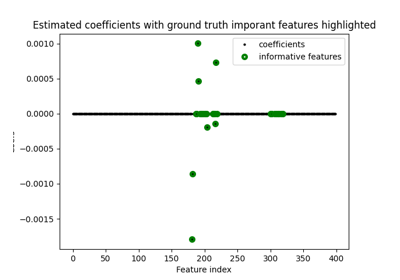
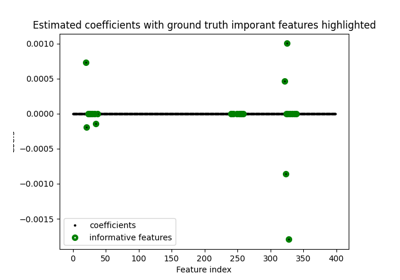
Deploying to gh-pages from  @ 1c7a7ec5d9ecbed5f57a8d3dbca868fb99ea54d0 🚀

diff --git a/searchindex.js b/searchindex.js
@@ -1,1 +1,1 @@
-Search.setIndex({docnames:["api","auto_examples/index","auto_examples/plot_classifier","auto_examples/sg_execution_times","contributing","getting_help","index","install","user_guide"],envversion:{"sphinx.domains.c":2,"sphinx.domains.changeset":1,"sphinx.domains.citation":1,"sphinx.domains.cpp":3,"sphinx.domains.index":1,"sphinx.domains.javascript":2,"sphinx.domains.math":2,"sphinx.domains.python":2,"sphinx.domains.rst":2,"sphinx.domains.std":1,"sphinx.ext.intersphinx":1,"sphinx.ext.viewcode":1,sphinx:56},filenames:["api.rst","auto_examples/index.rst","auto_examples/plot_classifier.rst","auto_examples/sg_execution_times.rst","contributing.rst","getting_help.rst","index.rst","install.rst","user_guide.rst"],objects:{"groupyr.datasets":{make_group_classification:[0,1,1,""],make_group_regression:[0,1,1,""]},groupyr:{LogisticSGL:[0,0,1,""],LogisticSGLCV:[0,0,1,""],SGL:[0,0,1,""],SGLCV:[0,0,1,""]}},objnames:{"0":["py","class","Python class"],"1":["py","function","Python function"]},objtypes:{"0":"py:class","1":"py:function"},terms:{"001":0,"100":[0,2],"1000":0,"10618600":0,"108":6,"1080":0,"122":6,"1283339":6,"181":2,"182":2,"187":2,"188":2,"190":2,"191":2,"193":2,"195":2,"196":2,"198":2,"200":2,"2003":0,"201":2,"2011":6,"2012":0,"2013":6,"2020":6,"203":2,"204":2,"213":2,"214":2,"215":2,"216":2,"217":2,"219":2,"231":[0,6],"245":[0,6],"2825":6,"2830":6,"300":2,"301":2,"302":2,"307":2,"309":2,"312":2,"313":2,"316":2,"318":2,"319":2,"4065037":6,"5281":6,"681250":0,"691":[2,3],"boolean":0,"case":0,"class":0,"default":0,"float":0,"function":0,"import":2,"int":0,"new":[5,7],"public":6,"return":0,"true":[0,2],"while":[0,8],And:6,For:0,The:[0,2,7],These:0,Use:0,Used:0,__init__:0,about:[0,5],accuracy_scor:0,across:0,actual:0,adapt:0,add:0,added:0,after:0,alford:6,alfr:6,algorithm:0,all:[0,1,5,7],allow:5,along:0,alpha:[0,6],alpha_:0,alpha_max:0,alpha_min:0,alphas_:0,also:[0,4],altern:7,amount:0,ani:[0,5],anjari:6,appli:0,appreci:6,appropri:[0,4],arang:2,arayan:6,arbitrari:0,ariel:6,around:0,arrai:0,ask:5,assign:[0,6],asso:6,attribut:0,author:6,auto_exampl:3,auto_examples_jupyt:1,auto_examples_python:1,automat:0,avail:4,balanc:0,basic:6,becaus:0,befor:[0,5],belong:[0,6],benchmark:0,best:[0,2],beta:6,betti:6,between:[0,6],bia:0,bibtex:6,bioengin:6,biomed:6,black:2,bool:0,borrow:6,both:6,bug:5,built:0,buitnick:6,button:5,calcul:0,call:0,callabl:0,can:[0,5,6,7],canon:0,capabl:0,center:0,character:6,choic:0,chosen:0,chosen_features_:2,citat:6,class_sep:0,classes_:0,classif:0,classifi:0,click:[2,5],clone:7,close:0,cluster:0,code:[1,2,7],coef:[0,2],coef_:[0,2],coeffici:[0,2,6],collabor:[4,6],column:6,com:7,combin:[0,6],compar:2,compat:[0,6],compos:0,composit:6,compris:0,compromis:0,comput:[0,6],constant:0,construct:0,contain:0,context:0,contigu:0,contrast:0,contribut:7,control:6,converg:0,copi:0,copt:6,copy_x:0,cost:0,covari:[0,6],cpu:0,creat:0,credit:4,criterion:0,dam:6,data:[0,5,6],dataset:2,decis:0,depend:[0,7],descent:0,design:[0,6],detail:[4,6],determin:0,develop:[4,6],deviat:0,differ:0,dimens:0,dimension:[0,6],distribut:0,divid:0,document:0,doi:[0,6],download:[1,2],drawn:0,duplic:0,dure:0,each:0,easier:0,ecml:6,edit:8,effect:0,effective_rank:0,effici:0,elasticnet:0,eleftherio:6,element:0,ell:6,els:0,encod:0,encourag:0,entri:6,eps:[0,2],equal:0,error:0,escienc:6,estim:[2,6],ethic:5,evalu:0,examin:5,exampl:[0,2,7],exce:0,exchang:0,execut:3,expect:0,experi:[0,6],explain:0,face:5,facilit:6,factor:0,fals:0,featur:[0,2,6,7],features_per_group:0,file:3,find:0,fit:[0,2,6],fit_intercept:0,flag:0,flip:6,flip_i:0,fold:0,formula:0,foundat:6,frac:6,fraction:0,friedman:[0,6],from:[0,2,4,6,7],full:2,further:[0,6,7],galleri:[1,2,6,7],garyfallidi:6,gaussian:0,gener:2,giant:0,git:7,github:[5,7],give:[0,6],global:6,going:5,good:0,gordon:6,gradient:0,grant:6,graphic:[0,6],green:2,grid:0,ground:2,group:[1,3],group_length:0,groupyr:[0,2,7],guid:[0,7],guidelin:[4,7],guyon:0,halford:6,happen:0,harder:0,has:0,hasti:[0,6],hat:6,have:0,heavili:6,here:[0,2,4],high:6,highlight:2,hot:0,how:[5,6,7],http:[6,7],hyper:0,hypercub:0,hyperparamet:[0,6],ichi:6,idx:2,ignor:0,imag:6,implement:6,impor:2,includ:[0,7],include_solver_trac:0,independ:0,index:2,indiana:6,indic:[0,2],infer:0,inform:[0,2,5,6,7],initi:0,input:0,instal:[5,6],instanc:0,institut:6,instruct:6,integ:0,intend:[0,6],intercept:0,intercept_:0,interdepend:0,introduc:0,introductori:[1,6],ipynb:2,issu:[5,8],iter:0,its:[6,7],jerom:0,joblib:0,journal:[0,6],jupyt:[1,2],just:0,kfold:0,know:5,known:0,l1_ratio:[0,2],l1_ratio_:0,label:[0,2],lambda:6,languag:6,larger:0,lasso:[1,3],last:0,learn:[0,6],legend:2,len:0,length:[0,6],less:7,librari:6,licens:[4,6],like:[0,7],linear:[0,6],linearli:0,list:0,loc:2,locat:0,logist:[0,1,3],logistic_sgl_path:0,logisticsgl:0,logisticsglcv:[0,2],logo:6,look:[0,6],machin:6,madelon:0,mai:[0,7],make:[0,5],make_blob:0,make_classif:0,make_group_classif:[0,2],make_group_regress:0,make_multilabel_classif:0,make_regress:0,marker:2,mathbf:6,matplotlib:2,matrix:[0,6],max_it:0,maximum:0,mean:[0,4],mec:2,membership:0,method:0,metric:0,mew:2,mfc:2,might:5,mild:0,min_:6,mine:6,minut:2,model:[0,2,6],month:6,moor:6,more:0,mse_path_:0,multilabel:0,multipl:0,multipli:0,must:6,n_alpha:[0,2],n_class:[0,2],n_clusters_per_class:0,n_featur:[0,2],n_features_per_group:[0,2],n_fold:0,n_group:[0,2],n_inform:0,n_informative_group:[0,2],n_informative_per_group:[0,2],n_iter_:0,n_job:0,n_l1_ratio:0,n_redund:0,n_redundant_per_group:[0,2],n_repeat:0,n_repeated_per_group:[0,2],n_sampl:[0,2],n_target:0,narayan:6,nation:6,ndarrai:0,need:5,neurosci:6,next:7,nih:6,nine:0,nip:0,noah:0,nois:0,non:[0,2],none:[0,2],norm:0,normal:[0,6],note:0,notebook:[1,2],number:[0,6],numpi:[0,2],object:0,oct:6,often:5,okem:6,one:0,onli:0,open:[4,8],oper:5,optim:[0,6],option:0,order:0,org:6,other:0,our:[4,5],out:[0,2],output:0,outsid:4,overal:0,overlap:0,overwritten:0,own:8,page:[5,6],parallel_backend:0,paramet:0,pars:6,partit:0,pass:0,path:0,patient:8,pedregosa:6,penal:[0,6],penalti:[0,6],per:0,pertin:5,pgd:0,pip:7,pkdd:6,place:0,pleas:[0,5,8],plot:2,plot_classifi:[2,3],plt:2,point:0,polytop:0,posit:0,possibl:0,post:5,predefin:6,predict:0,predictor:0,preprocess:0,previou:0,primari:0,print:2,prior:0,problem:[0,6],procedur:5,processor:0,produc:0,project:[4,6],promot:6,proport:0,provid:[0,5],proxim:0,pseudo:0,publish:6,put:0,pypi:7,pyplot:2,python:[1,2,7],r01eb027585:6,randal:6,random:0,random_st:[0,2],randomli:0,randomst:0,reach:0,recommend:7,redund:0,regress:[0,2,6],regressor:0,regular:[0,6],relat:6,relationship:6,reli:6,remain:0,repeat:0,repositori:[5,7],reproduc:0,requir:7,research:[4,6],result:0,reus:0,richford:7,richi:6,riel:6,robert:0,rokem:6,root:0,roup:6,roupyr:6,routin:0,run:[0,2,5],same:0,sampl:[0,5],satisfi:6,scale:[0,2],scale_l2_bi:0,scientif:6,scikit:[0,6],score:0,scorer:0,scoring_path_:0,script:2,search:0,second:2,see:[0,4,6,7],seed:0,select:0,send:5,set:[0,6],sgl:0,sgl_path:0,sglcv:0,shape:[0,2],share:5,shift:0,should:0,show:2,shuffl:0,side:0,signal:[1,3],signatur:0,silhouett:6,simon:[0,6],simplifi:0,simul:2,singular:0,size:0,sklearn:0,sloan:6,small:5,softwar:[4,5,6],solut:0,solv:0,solver:[0,6],some:0,sourc:[0,1,2,4,7],spars:[1,3],sparsiti:[0,6],specifi:0,sphinx:[1,2],split:0,splitter:0,spread:0,sqrt:6,squar:0,stabl:7,stack:0,standard:0,standardscal:0,start:0,statist:[0,6],std:0,stop:0,strategi:0,strength:[0,6],string:0,strong:0,studi:5,submatrix:6,subspac:0,subtract:0,suggest:8,sum:0,sum_:6,supervis:6,support:6,suppress:0,suppress_solver_warn:0,sure:5,synthet:0,system:5,target:6,task:0,techniqu:0,templat:6,term:0,test:0,than:0,thei:0,therefor:6,thi:[0,4,5,7,8],three:0,through:6,tibshirani:[0,6],time:2,titl:[2,6],tol:[0,2],toler:0,total:[0,2,3,6],train:0,trevor:0,truth:2,tune:0,type:0,univers:6,unless:0,unrel:0,unshuffl:0,updat:[0,8],url:6,usag:6,use:[0,4,6,7],used:0,useful:0,useful_indic:[0,2],useless:0,user:[0,7],uses:0,using:[0,6,7],valu:0,vari:0,variabl:[0,6],variant:0,variou:0,vector:[0,6],verbos:0,version:[0,5,6],vertic:0,via:0,vol:0,wai:7,warm:0,warm_start:0,warn:0,washington:6,weight:0,welcom:4,well:[5,6],what:5,when:0,where:[0,2,6],whether:0,which:0,whose:0,wise:[0,6],wish:0,within:0,workshop:6,would:[0,6,7],xlabel:2,year:6,yield:[0,6],ylabel:2,you:[0,4,5,6,7],your:[5,8],ython:6,zenodo:6,zero:[0,2],zip:1},titles:["API Reference","General examples","Logistic Sparse Group Lasso for grouped sparse signals","Computation times","Contributing to <em>groupyr</em>","Getting help using <em>groupyr</em>","Groupyr: Sparse Group Lasso in Python","Installation","User guide : contents"],titleterms:{The:6,acknowledg:6,api:[0,6],cite:6,comput:3,construct:8,contribut:4,cross:0,dataset:0,develop:7,document:6,estim:0,exampl:[1,6],gener:[0,1],get:[5,6],group:[0,2,6],groupyr:[4,5,6],guid:[6,8],help:5,instal:7,lasso:[0,2,6],logist:2,python:6,refer:[0,6],releas:7,signal:2,spars:[0,2,6],start:6,time:3,under:8,user:[6,8],using:5,valid:0,version:7}})
+Search.setIndex({docnames:["api","auto_examples/index","auto_examples/plot_classifier","auto_examples/sg_execution_times","contributing","getting_help","index","install","user_guide"],envversion:{"sphinx.domains.c":2,"sphinx.domains.changeset":1,"sphinx.domains.citation":1,"sphinx.domains.cpp":3,"sphinx.domains.index":1,"sphinx.domains.javascript":2,"sphinx.domains.math":2,"sphinx.domains.python":2,"sphinx.domains.rst":2,"sphinx.domains.std":1,"sphinx.ext.intersphinx":1,"sphinx.ext.viewcode":1,sphinx:56},filenames:["api.rst","auto_examples/index.rst","auto_examples/plot_classifier.rst","auto_examples/sg_execution_times.rst","contributing.rst","getting_help.rst","index.rst","install.rst","user_guide.rst"],objects:{"groupyr.datasets":{make_group_classification:[0,1,1,""],make_group_regression:[0,1,1,""]},groupyr:{LogisticSGL:[0,0,1,""],LogisticSGLCV:[0,0,1,""],SGL:[0,0,1,""],SGLCV:[0,0,1,""]}},objnames:{"0":["py","class","Python class"],"1":["py","function","Python function"]},objtypes:{"0":"py:class","1":"py:function"},terms:{"001":0,"100":[0,2],"1000":0,"10618600":0,"108":6,"1080":0,"122":6,"1283339":6,"2003":0,"2011":6,"2012":0,"2013":6,"2020":6,"231":[0,6],"240":2,"241":2,"244":2,"245":[0,6],"249":2,"253":2,"254":2,"255":2,"256":2,"257":2,"259":2,"2825":6,"2830":6,"291":[2,3],"322":2,"323":2,"324":2,"325":2,"326":2,"328":2,"330":2,"333":2,"337":2,"339":2,"4065037":6,"5281":6,"681250":0,"boolean":0,"case":0,"class":0,"default":0,"float":0,"function":0,"import":2,"int":0,"new":[5,7],"public":6,"return":0,"true":[0,2],"while":[0,8],And:6,For:0,The:[0,2,7],These:0,Use:0,Used:0,__init__:0,about:[0,5],accuracy_scor:0,across:0,actual:0,adapt:0,add:0,added:0,after:0,alford:6,alfr:6,algorithm:0,all:[0,1,5,7],allow:5,along:0,alpha:[0,6],alpha_:0,alpha_max:0,alpha_min:0,alphas_:0,also:[0,4],altern:7,amount:0,ani:[0,5],anjari:6,appli:0,appreci:6,appropri:[0,4],arang:2,arayan:6,arbitrari:0,ariel:6,around:0,arrai:0,ask:5,assign:[0,6],asso:6,attribut:0,author:6,auto_exampl:3,auto_examples_jupyt:1,auto_examples_python:1,automat:0,avail:4,balanc:0,basic:6,becaus:0,befor:[0,5],belong:[0,6],benchmark:0,best:[0,2],beta:6,betti:6,between:[0,6],bia:0,bibtex:6,bioengin:6,biomed:6,black:2,bool:0,borrow:6,both:6,bug:5,built:0,buitnick:6,button:5,calcul:0,call:0,callabl:0,can:[0,5,6,7],canon:0,capabl:0,center:0,character:6,choic:0,chosen:0,chosen_features_:2,citat:6,class_sep:0,classes_:0,classif:0,classifi:0,click:[2,5],clone:7,close:0,cluster:0,code:[1,2,7],coef:[0,2],coef_:[0,2],coeffici:[0,2,6],collabor:[4,6],column:6,com:7,combin:[0,6],compar:2,compat:[0,6],compos:0,composit:6,compris:0,compromis:0,comput:[0,6],constant:0,construct:0,contain:0,context:0,contigu:0,contrast:0,contribut:7,control:6,converg:0,copi:0,copt:6,copy_x:0,cost:0,covari:[0,6],cpu:0,creat:0,credit:4,criterion:0,dam:6,data:[0,5,6],dataset:2,decis:0,depend:[0,7],descent:0,design:[0,6],detail:[4,6],determin:0,develop:[4,6],deviat:0,differ:0,dimens:0,dimension:[0,6],distribut:0,divid:0,document:0,doi:[0,6],download:[1,2],drawn:0,duplic:0,dure:0,each:0,easier:0,ecml:6,edit:8,effect:0,effective_rank:0,effici:0,elasticnet:0,eleftherio:6,element:0,ell:6,els:0,encod:0,encourag:0,entri:6,eps:[0,2],equal:0,error:0,escienc:6,estim:[2,6],ethic:5,evalu:0,examin:5,exampl:[0,2,7],exce:0,exchang:0,execut:3,expect:0,experi:[0,6],explain:0,face:5,facilit:6,factor:0,fals:0,featur:[0,2,6,7],features_per_group:0,file:3,find:0,fit:[0,2,6],fit_intercept:0,flag:0,flip:6,flip_i:0,fold:0,formula:0,foundat:6,frac:6,fraction:0,friedman:[0,6],from:[0,2,4,6,7],full:2,further:[0,6,7],galleri:[1,2,6,7],garyfallidi:6,gaussian:0,gener:2,giant:0,git:7,github:[5,7],give:[0,6],global:6,going:5,good:0,gordon:6,gradient:0,grant:6,graphic:[0,6],green:2,grid:0,ground:2,group:[1,3],group_length:0,groupyr:[0,2,7],guid:[0,7],guidelin:[4,7],guyon:0,halford:6,happen:0,harder:0,has:0,hasti:[0,6],hat:6,have:0,heavili:6,here:[0,2,4],high:6,highlight:2,hot:0,how:[5,6,7],http:[6,7],hyper:0,hypercub:0,hyperparamet:[0,6],ichi:6,idx:2,ignor:0,imag:6,implement:6,impor:2,includ:[0,7],include_solver_trac:0,independ:0,index:2,indiana:6,indic:[0,2],infer:0,inform:[0,2,5,6,7],initi:0,input:0,instal:[5,6],instanc:0,institut:6,instruct:6,integ:0,intend:[0,6],intercept:0,intercept_:0,interdepend:0,introduc:0,introductori:[1,6],ipynb:2,issu:[5,8],iter:0,its:[6,7],jerom:0,joblib:0,journal:[0,6],jupyt:[1,2],just:0,kfold:0,know:5,known:0,l1_ratio:[0,2],l1_ratio_:0,label:[0,2],lambda:6,languag:6,larger:0,lasso:[1,3],last:0,learn:[0,6],legend:2,len:0,length:[0,6],less:7,librari:6,licens:[4,6],like:[0,7],linear:[0,6],linearli:0,list:0,loc:2,locat:0,logist:[0,1,3],logistic_sgl_path:0,logisticsgl:0,logisticsglcv:[0,2],logo:6,look:[0,6],machin:6,madelon:0,mai:[0,7],make:[0,5],make_blob:0,make_classif:0,make_group_classif:[0,2],make_group_regress:0,make_multilabel_classif:0,make_regress:0,marker:2,mathbf:6,matplotlib:2,matrix:[0,6],max_it:0,maximum:0,mean:[0,4],mec:2,membership:0,method:0,metric:0,mew:2,mfc:2,might:5,mild:0,min_:6,mine:6,minut:2,model:[0,2,6],month:6,moor:6,more:0,mse_path_:0,multilabel:0,multipl:0,multipli:0,must:6,n_alpha:[0,2],n_class:[0,2],n_clusters_per_class:0,n_featur:[0,2],n_features_per_group:[0,2],n_fold:0,n_group:[0,2],n_inform:0,n_informative_group:[0,2],n_informative_per_group:[0,2],n_iter_:0,n_job:0,n_l1_ratio:0,n_redund:0,n_redundant_per_group:[0,2],n_repeat:0,n_repeated_per_group:[0,2],n_sampl:[0,2],n_target:0,narayan:6,nation:6,ndarrai:0,need:5,neurosci:6,next:7,nih:6,nine:0,nip:0,noah:0,nois:0,non:[0,2],none:[0,2],norm:0,normal:[0,6],note:0,notebook:[1,2],number:[0,6],numpi:[0,2],object:0,oct:6,often:5,okem:6,one:0,onli:0,open:[4,8],oper:5,optim:[0,6],option:0,order:0,org:6,other:0,our:[4,5],out:[0,2],output:0,outsid:4,overal:0,overlap:0,overwritten:0,own:8,page:[5,6],parallel_backend:0,paramet:0,pars:6,partit:0,pass:0,path:0,patient:8,pedregosa:6,penal:[0,6],penalti:[0,6],per:0,pertin:5,pgd:0,pip:7,pkdd:6,place:0,pleas:[0,5,8],plot:2,plot_classifi:[2,3],plt:2,point:0,polytop:0,posit:0,possibl:0,post:5,predefin:6,predict:0,predictor:0,preprocess:0,previou:0,primari:0,print:2,prior:0,problem:[0,6],procedur:5,processor:0,produc:0,project:[4,6],promot:6,proport:0,provid:[0,5],proxim:0,pseudo:0,publish:6,put:0,pypi:7,pyplot:2,python:[1,2,7],r01eb027585:6,randal:6,random:0,random_st:[0,2],randomli:0,randomst:0,reach:0,recommend:7,redund:0,regress:[0,2,6],regressor:0,regular:[0,6],relat:6,relationship:6,reli:6,remain:0,repeat:0,repositori:[5,7],reproduc:0,requir:7,research:[4,6],result:0,reus:0,richford:7,richi:6,riel:6,robert:0,rokem:6,root:0,roup:6,roupyr:6,routin:0,run:[0,2,5],same:0,sampl:[0,5],satisfi:6,scale:[0,2],scale_l2_bi:0,scientif:6,scikit:[0,6],score:0,scorer:0,scoring_path_:0,script:2,search:0,second:2,see:[0,4,6,7],seed:0,select:0,send:5,set:[0,6],sgl:0,sgl_path:0,sglcv:0,shape:[0,2],share:5,shift:0,should:0,show:2,shuffl:0,side:0,signal:[1,3],signatur:0,silhouett:6,simon:[0,6],simplifi:0,simul:2,singular:0,size:0,sklearn:0,sloan:6,small:5,softwar:[4,5,6],solut:0,solv:0,solver:[0,6],some:0,sourc:[0,1,2,4,7],spars:[1,3],sparsiti:[0,6],specifi:0,sphinx:[1,2],split:0,splitter:0,spread:0,sqrt:6,squar:0,stabl:7,stack:0,standard:0,standardscal:0,start:0,statist:[0,6],std:0,stop:0,strategi:0,strength:[0,6],string:0,strong:0,studi:5,submatrix:6,subspac:0,subtract:0,suggest:8,sum:0,sum_:6,supervis:6,support:6,suppress:0,suppress_solver_warn:0,sure:5,synthet:0,system:5,target:6,task:0,techniqu:0,templat:6,term:0,test:0,than:0,thei:0,therefor:6,thi:[0,4,5,7,8],three:0,through:6,tibshirani:[0,6],time:2,titl:[2,6],tol:[0,2],toler:0,total:[0,2,3,6],train:0,trevor:0,truth:2,tune:0,type:0,univers:6,unless:0,unrel:0,unshuffl:0,updat:[0,8],url:6,usag:6,use:[0,4,6,7],used:0,useful:0,useful_indic:[0,2],useless:0,user:[0,7],uses:0,using:[0,6,7],valu:0,vari:0,variabl:[0,6],variant:0,variou:0,vector:[0,6],verbos:0,version:[0,5,6],vertic:0,via:0,vol:0,wai:7,warm:0,warm_start:0,warn:0,washington:6,weight:0,welcom:4,well:[5,6],what:5,when:0,where:[0,2,6],whether:0,which:0,whose:0,wise:[0,6],wish:0,within:0,workshop:6,would:[0,6,7],xlabel:2,year:6,yield:[0,6],ylabel:2,you:[0,4,5,6,7],your:[5,8],ython:6,zenodo:6,zero:[0,2],zip:1},titles:["API Reference","General examples","Logistic Sparse Group Lasso for grouped sparse signals","Computation times","Contributing to <em>groupyr</em>","Getting help using <em>groupyr</em>","Groupyr: Sparse Group Lasso in Python","Installation","User guide : contents"],titleterms:{The:6,acknowledg:6,api:[0,6],cite:6,comput:3,construct:8,contribut:4,cross:0,dataset:0,develop:7,document:6,estim:0,exampl:[1,6],gener:[0,1],get:[5,6],group:[0,2,6],groupyr:[4,5,6],guid:[6,8],help:5,instal:7,lasso:[0,2,6],logist:2,python:6,refer:[0,6],releas:7,signal:2,spars:[0,2,6],start:6,time:3,under:8,user:[6,8],using:5,valid:0,version:7}})

diff --git a/auto_examples/plot_classifier.html b/auto_examples/plot_classifier.html
@@ -185,10 +185,10 @@ ground-truth.</p>
 <img alt="Estimated coefficients with ground truth imporant features highlighted" class="sphx-glr-single-img" src="../_images/sphx_glr_plot_classifier_001.png" />
 <p class="sphx-glr-script-out">Out:</p>
 <div class="sphx-glr-script-out highlight-none notranslate"><div class="highlight"><pre><span></span>Indices of ground-truth informative features:
-[181 182 187 188 190 191 193 195 196 198 200 201 203 204 213 214 215 216
- 217 219 300 301 302 307 309 312 313 316 318 319]
+[ 20  21  23  24  25  27  30  33  35  38 240 241 244 249 253 254 255 256
+ 257 259 322 323 324 325 326 328 330 333 337 339]
 Indices of non-zero estimated coefs:
-[181 182 188 190 191 204 216 217]
+[ 20  21  35 322 323 325 328 333]
 </pre></div>
 </div>
 <div class="line-block">
@@ -258,7 +258,7 @@ Indices of non-zero estimated coefs:
 <span class="nb">print</span><span class="p">(</span><a href="../api.html#groupyr.LogisticSGLCV" title="groupyr.LogisticSGLCV" class="sphx-glr-backref-module-groupyr sphx-glr-backref-type-py-class sphx-glr-backref-instance"><span class="n">model</span></a><span class="o">.</span><span class="n">chosen_features_</span><span class="p">)</span>
 </pre></div>
 </div>
-<p class="sphx-glr-timing"><strong>Total running time of the script:</strong> ( 2 minutes  0.691 seconds)</p>
+<p class="sphx-glr-timing"><strong>Total running time of the script:</strong> ( 1 minutes  55.291 seconds)</p>
 <div class="sphx-glr-footer class sphx-glr-footer-example docutils container" id="sphx-glr-download-auto-examples-plot-classifier-py">
 <div class="sphx-glr-download sphx-glr-download-python docutils container">
 <p><a class="reference download internal" download="" href="../_downloads/084669b45b226af6f637ab8457c8c5aa/plot_classifier.py"><code class="xref download docutils literal notranslate"><span class="pre">Download</span> <span class="pre">Python</span> <span class="pre">source</span> <span class="pre">code:</span> <span class="pre">plot_classifier.py</span></code></a></p>

diff --git a/auto_examples/sg_execution_times.html b/auto_examples/sg_execution_times.html
@@ -168,7 +168,7 @@
             
   <div class="section" id="computation-times">
 <span id="sphx-glr-auto-examples-sg-execution-times"></span><h1>Computation times<a class="headerlink" href="#computation-times" title="Permalink to this headline">¶</a></h1>
-<p><strong>02:00.691</strong> total execution time for <strong>auto_examples</strong> files:</p>
+<p><strong>01:55.291</strong> total execution time for <strong>auto_examples</strong> files:</p>
 <table class="docutils align-default">
 <colgroup>
 <col style="width: 80%" />
@@ -177,7 +177,7 @@
 </colgroup>
 <tbody>
 <tr class="row-odd"><td><p><a class="reference internal" href="plot_classifier.html#sphx-glr-auto-examples-plot-classifier-py"><span class="std std-ref">Logistic Sparse Group Lasso for grouped sparse signals</span></a> (<code class="docutils literal notranslate"><span class="pre">plot_classifier.py</span></code>)</p></td>
-<td><p>02:00.691</p></td>
+<td><p>01:55.291</p></td>
 <td><p>0.0 MB</p></td>
 </tr>
 </tbody>
